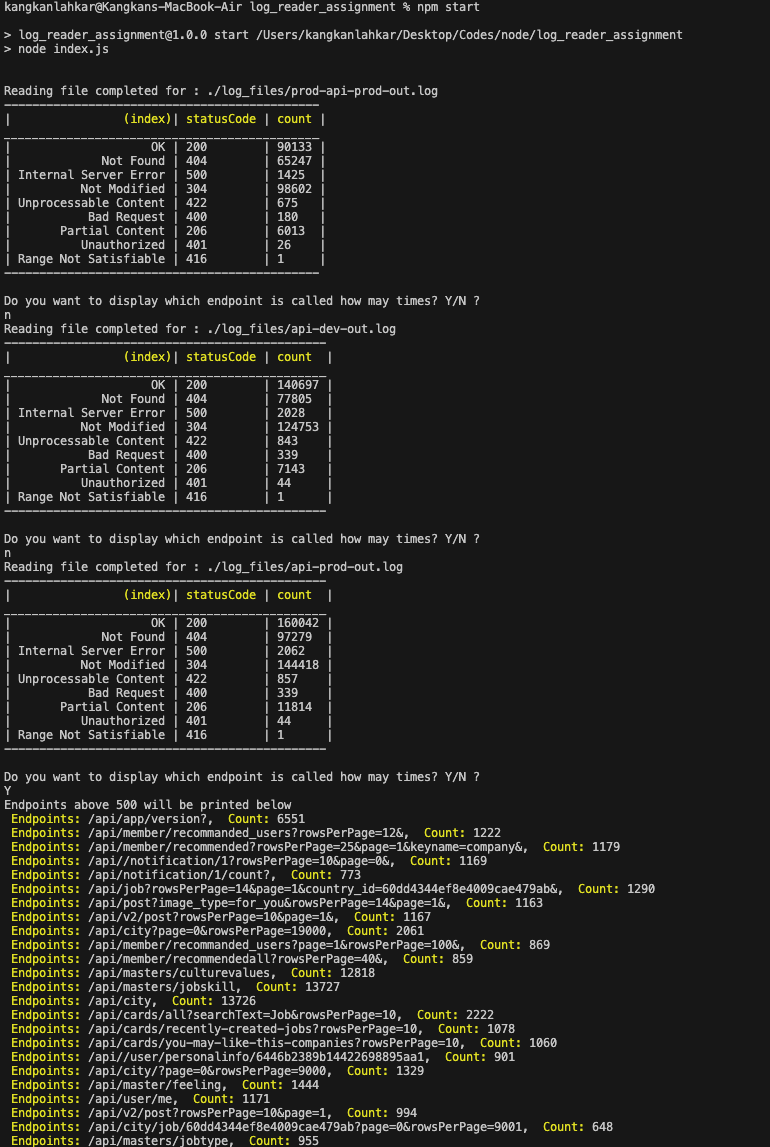
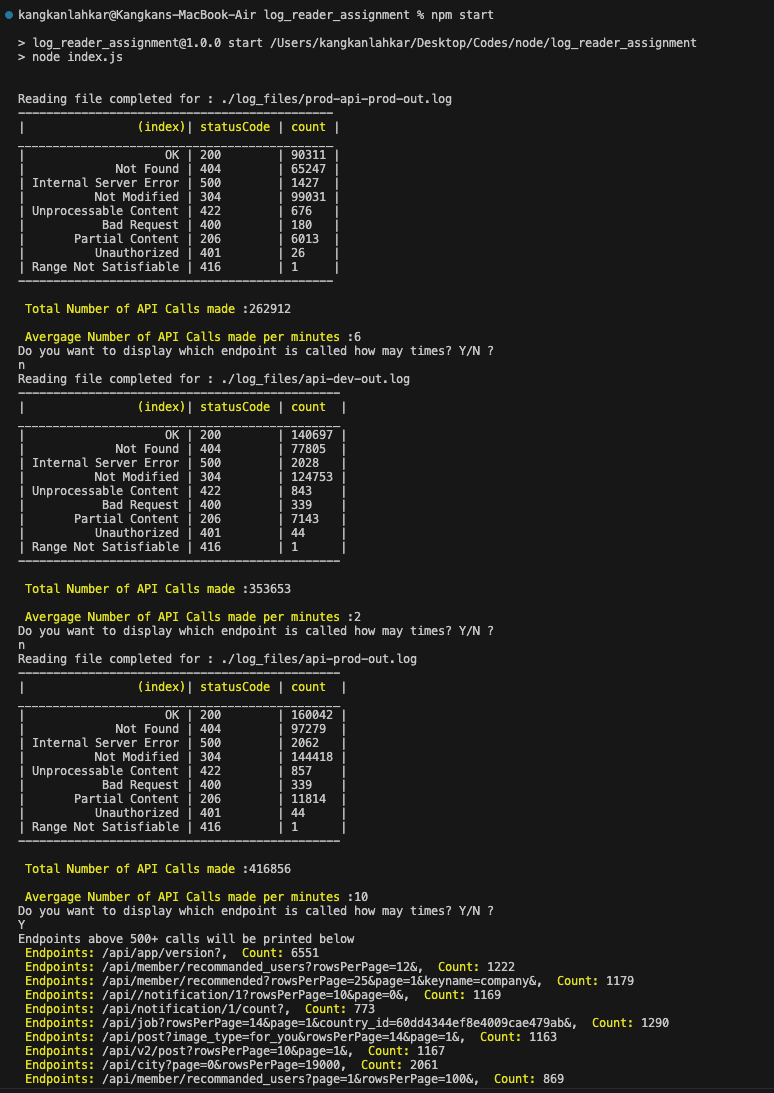
average number of api calls added

diff --git a/index.js b/index.js
@@ -46,8 +46,20 @@ for(let file in log_files){
       line_count++;
       if (regexPattern.test(line)) {
           for(let i in request_methods){
+            // 2023-04-04 15:42 +10:00: ::ffff:49.36.65.32 - - [04/Apr/2023:05:42:05 +0000] "GET /api//notification/1?rowsPerPage=10&page=0& HTTP/1.1" 200 12904 "-" "okhttp/4.9.1"
+            // must contains ':ffff' and 'HTTP/1.1
             if(line.includes(request_methods[i]) && line.includes(':ffff') && line.includes('HTTP/1.1')){
               valid++;
+              
+              let time =line.split('+') 
+              time = time[0]
+              time = time.trim()
+              // console.log(time)
+              if(first_time === 0){
+                first_time = new Date(time);
+              }else{
+                last_time = new Date(time);
+              }
              
               try{
                 // 2023-04-03 23:18 +10:00: ::ffff:49.36.88.202 - - [03/Apr/2023:13:18:49 +0000] "GET /master/job_templates_kHfMGI_1644343835794.png HTTP/1.1" 200 1247981 "-" "webapp/1 CFNetwork/1402.0.8 Darwin/22.3.0"
@@ -102,10 +114,17 @@ for(let file in log_files){
     rl.on('close', () => {
       
       console.log('Reading file completed for : '+log_files[file]);
-      printValue(method_map)
+      printValue(method_map, first_time, last_time)
       console.log()
       process.stdout.write("Do you want to display which endpoint is called how may times? Y/N ?")
       console.log()
+      // console.log("First time ", first_time);
+      // console.log("Last time ", last_time)
+      try{
+        
+      }catch(e){
+
+      }
       
       let shouldPrint = input.question()
       // if user input is 'Y' or  'y' display API endpoints along with count

diff --git a/printValue.js b/printValue.js
@@ -4,7 +4,7 @@ const status_code = require('./status_code');  // all possible http code and cod
  * it will be printed in table format
  */ 
 
-let printValue = function printValue(map){
+let printValue = function printValue(map, first_time=null, last_time=null){
 
   let len1 = 0, len2=0, len3=0;
   let sum = 0;
@@ -85,6 +85,15 @@ let printValue = function printValue(map){
   process.stdout.write('\n') 
   process.stdout.write('\n') 
   process.stdout.write('\x1b[33m Total Number of API Calls made \x1b[0m:'+sum) 
+
+  if(first_time && last_time){
+    let time_diff = last_time-first_time;
+    let min = time_diff / (1000*60);
+    process.stdout.write('\n') ;
+    process.stdout.write('\n') ;
+    process.stdout.write('\x1b[33m Avergage Number of API Calls made per minutes \x1b[0m:'+Math.floor(sum/min)) 
+  }
+  
       
 
 }

diff --git a/README.md b/README.md
@@ -18,9 +18,10 @@
 
 ![alt text](https://github.com/kangkan1/log_reader_assigment/blob/master/static/images/result2.png?raw=true)
 
-# npm start
 
 
-# Please store all the log files in folder "log_files"
+
+# Please store all the log files in folder "log_files".
 # The programme will automatically read all the files
+# from the folder "log_files".
 
